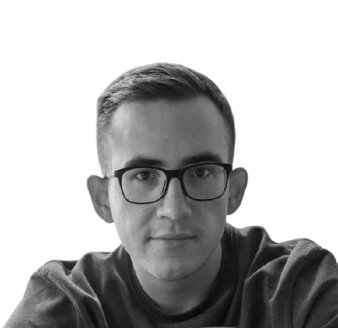
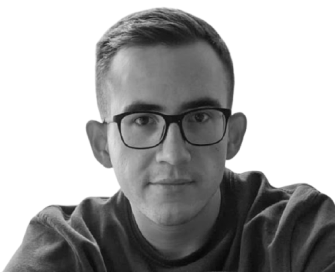
added mobile layout

diff --git a/src/App.css b/src/App.css
@@ -41,7 +41,7 @@ section {
  }
 
 .section-header {
-  padding-top: 80px;
+  padding-top: 40px;
 }
 
 .logo-name {
@@ -73,7 +73,15 @@ margin-bottom: 40px;
     height: 100%;
   background-color: #ffffff;
   padding: 0 20%;
-} 
+}
+
+
+.header-text, .header-image {
+  width: 50%;
+}
+
+
+
 .main-header {
    color: #000000;
   font-family: Manrope;
@@ -167,4 +175,111 @@ color: #383838;
 
 .social-links a:hover svg {
   color: #dedede;
+}
+
+.portrait-image {
+  width:336px;
+height:276px;
+}
+
+@media only screen and (max-width: 60 0px) {
+   .v-divider-left{
+     width: 1px;
+     height: 100%;
+     background: linear-gradient(180deg, rgba(237, 237, 237, 0) 0%, #EDEDED 13.54%, #EDEDED 50%, #EDEDED 85.42%, rgba(237, 237, 237, 0) 100%);
+     position: absolute;
+     top: 0;
+     left: 10%;
+   }
+   
+   .v-divider-right{
+     width: 1px;
+     height: 100%;
+     background: linear-gradient(180deg, rgba(237, 237, 237, 0) 0%, #EDEDED 13.54%, #EDEDED 50%, #EDEDED 85.42%, rgba(237, 237, 237, 0) 100%);
+     position: absolute;
+     top: 0;
+     right: 10%;
+  
+   }
+  
+  .section-header {
+    padding-top: 40px;
+  }
+  
+  .logo-name {
+    font-family: Manrope;
+  font-size: 30px;
+  font-style: normal;
+  font-weight: 800;
+  line-height: 55px;
+  letter-spacing: 0;
+  text-align: center;
+  color: #000000;
+  }
+  
+  .logo-sub {
+    font-family: Manrope;
+  font-size: 12px;
+  font-style: normal;
+  font-weight: 600;
+  line-height: 19px;
+  letter-spacing: 1.6px;
+  text-align: left;
+  color: #9D9D9D;
+  text-transform: uppercase;
+  margin-bottom: 40px;
+  }
+  
+  .main-bg {
+    width: 100%;
+      height: 100%;
+    background-color: #ffffff;
+    padding: 0 10%;
+  } 
+  .main-header {
+     color: #000000;
+    font-family: Manrope;
+    font-size: 42px;
+    font-style: normal;
+    font-weight: 800;
+    line-height: 56px;
+    letter-spacing: 0em;
+    text-align: left;
+    margin: 0;
+  }
+  
+  .subheader {
+    margin-top: 16px;
+  }
+  
+  .subheader p {
+    font-family: Manrope;
+  font-size: 12px;
+  font-style: normal;
+  font-weight: 500;
+  line-height: 16px;
+  letter-spacing: 0em;
+  text-align: left;
+  }
+  
+  a {
+    color: #2493B6;
+    text-decoration: none;
+    
+  }
+  
+  a:hover {
+    text-decoration: none;
+    border: none;
+  }
+  
+  a:visited {
+    color: #2493B6;
+    text-decoration: none;
+  }
+  
+  .portrait-image {
+    width: 100%;
+    height: 100%;
+  }
 }

diff --git a/src/App.js b/src/App.js
@@ -36,7 +36,7 @@ function App() {
       <div className="main-bg">
         <div className="d-flex flex-column">
           <div className="d-flex flex-md-row flex-column align-items-start justify-content-center section-header">
-            <div className="d-flex flex-column align-self-start h-100 w-50">
+            <div className="d-flex flex-column align-self-start h-100 header-text">
               <div className="d-flex flex-column align-items-start justify-content-center">
                 <h1 className="main-header">Hey </h1>
                 <h1 className="main-header">I'm Eddie!</h1>
@@ -60,18 +60,16 @@ function App() {
                 </p>
                 <p>Unfortunately still working on this website</p>
 
-                <div className="d-flex social-links">
-                  <a className="mr-3" href="https://dribbble.com/eddiedesign" target="_blank"><img src={dribbbleIcon}/></a>
-                  <a href="https://www.linkedin.com/in/eduardlotz/" target="_blank"><img src={linkedinIcon}/></a>
+                <div className="d-flex align-items-end social-links">
+                  <a className="mr-3" href="https://www.linkedin.com/in/eduardlotz/" target="_blank"><img src={linkedinIcon}/></a>
+                  <a  href="https://dribbble.com/eddiedesign" target="_blank"><img src={dribbbleIcon}/></a>
                 </div>
               </div>
             </div>
-            <div className="d-flex flex-column align-self-start h-100 w-50">
+            <div className="d-flex flex-column align-self-end h-100 align-items-end justify-content-end header-image">
               <img
                 src={portrait}
-                width={337}
-                height={328}
-                className="align-self-end justify-self-end"
+                className="portrait-image align-self-end justify-self-end"
               />
 
               {/**           
